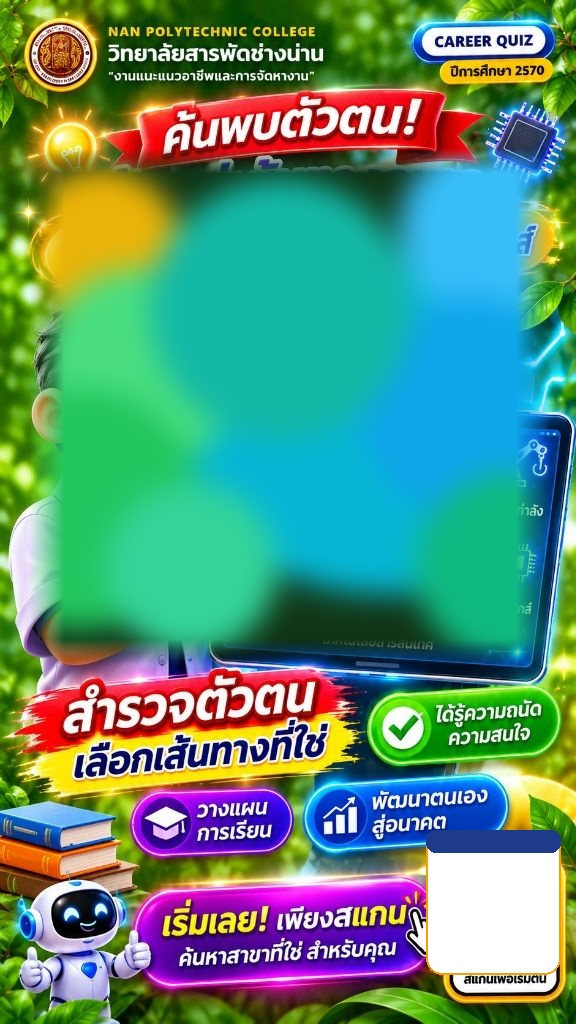
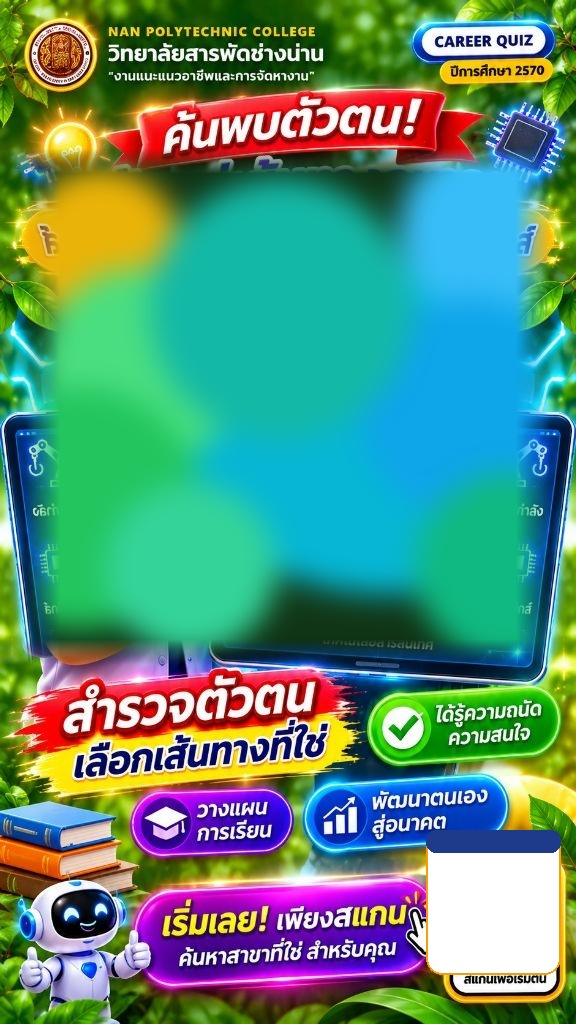
feat(guidance): replace ghost background person with pure lush foliage, restore original 3D title graphic, and adjust hero mascot placement

Changed region(s): [[0.0, 0.125, 0.125, 0.6562]]

diff --git a/src/components/GuidanceShareCardModal.tsx b/src/components/GuidanceShareCardModal.tsx
@@ -371,35 +371,33 @@ export default function GuidanceShareCardModal({
                     className="absolute inset-0 w-full h-full object-cover pointer-events-none select-none z-0"
                   />
 
-                  {/* 2. PROMINENT 3D TITLE: 'น้องสู่เส้นทางอนาคต' (Placed cleanly in front of / before the box) */}
+                  {/* 2. PROMINENT 3D TITLE: 'น้องสู่เส้นทางอนาคต' (Original 3D Graphic Typography) */}
                   <div
                     style={{
                       position: "absolute",
-                      top: "152px",
+                      top: "144px",
                       left: "0",
                       width: "576px",
-                      textAlign: "center",
+                      height: "56px",
                     }}
                     className="z-30 pointer-events-none flex items-center justify-center"
                   >
-                    <span
-                      style={{
-                        letterSpacing: "0.03em",
-                      }}
-                      className="text-[26px] sm:text-[28px] font-black text-white drop-shadow-[0_2px_4px_rgba(0,0,0,0.9)] [text-shadow:_0_0_15px_#38bdf8,_0_0_28px_#0284c7]"
-                    >
-                      น้องสู่เส้นทางอนาคต
-                    </span>
+                    {/* eslint-disable-next-line @next/next/no-img-element */}
+                    <img
+                      src={assetUrl("/images/card-elements/future_path_title_3d.png")}
+                      alt="น้องสู่เส้นทางอนาคต"
+                      className="h-full object-contain drop-shadow-[0_4px_10px_rgba(0,0,0,0.85)] filter"
+                    />
                   </div>
 
                   {/* 3. DYNAMIC GOLDEN CAPSULE: Major / Program Name */}
                   <div
                     style={{
                       position: "absolute",
-                      top: "198px",
+                      top: "200px",
                       left: "24px",
                       width: "528px",
-                      height: "66px",
+                      height: "64px",
                     }}
                     className="z-30 flex items-center justify-center pointer-events-none"
                   >
@@ -415,25 +413,25 @@ export default function GuidanceShareCardModal({
                     </div>
                   </div>
 
-                  {/* 4. DYNAMIC 3D MASCOT HERO (Background cut out, transparent PNG, gesturing toward screen) */}
+                  {/* 4. DYNAMIC 3D MASCOT HERO (Replaces original character, transparent PNG, gesturing toward screen) */}
                   <div
                     style={{
                       position: "absolute",
-                      top: "270px",
-                      left: "4px",
-                      width: "245px",
-                      height: "385px",
+                      top: "240px",
+                      left: "-4px",
+                      width: "275px",
+                      height: "415px",
                     }}
-                    className="z-20 pointer-events-none flex flex-col items-center justify-end"
+                    className="z-22 pointer-events-none flex flex-col items-center justify-end"
                   >
                     {/* eslint-disable-next-line @next/next/no-img-element */}
                     <img
                       src={assetUrl(`/images/mascots/${mascotType}_transparent.png`)}
                       alt={`Mascot ${topDept.name}`}
-                      className="w-full h-full object-contain object-bottom drop-shadow-[0_15px_25px_rgba(0,0,0,0.85)] filter"
+                      className="w-full h-full object-contain object-bottom drop-shadow-[0_18px_28px_rgba(0,0,0,0.85)] filter"
                     />
                     {/* Mascot Department Badge */}
-                    <div className="absolute bottom-2 left-6 bg-slate-950/85 backdrop-blur-xs py-1 px-3 rounded-full border border-cyan-400/60 shadow-[0_0_12px_rgba(6,182,212,0.6)]">
+                    <div className="absolute bottom-2 left-6 bg-slate-950/90 backdrop-blur-xs py-1 px-3 rounded-full border border-cyan-400/60 shadow-[0_0_12px_rgba(6,182,212,0.6)]">
                       <span className="text-[10px] font-black text-cyan-300 tracking-wider">
                         ★ ตัวแทน {topDept.shortName}
                       </span>
@@ -444,12 +442,12 @@ export default function GuidanceShareCardModal({
                   <div
                     style={{
                       position: "absolute",
-                      top: "272px",
-                      left: "234px",
-                      width: "326px",
-                      height: "380px",
+                      top: "265px",
+                      left: "232px",
+                      width: "328px",
+                      height: "385px",
                     }}
-                    className="z-25 rounded-3xl overflow-hidden bg-gradient-to-b from-[#0a1e3f]/95 via-[#071329]/95 to-[#040b18]/95 border-2 border-cyan-400/80 shadow-[0_0_30px_rgba(6,182,212,0.45)] backdrop-blur-md flex flex-col justify-between p-2.5"
+                    className="z-20 rounded-3xl overflow-hidden bg-gradient-to-b from-[#0a1e3f]/95 via-[#071329]/95 to-[#040b18]/95 border-2 border-cyan-400/80 shadow-[0_0_30px_rgba(6,182,212,0.45)] backdrop-blur-md flex flex-col justify-between p-2.5"
                   >
                     {/* Cyber Tablet Top Bar */}
                     <div className="flex items-center justify-between px-2 pt-1 pb-1.5 border-b border-cyan-500/30">
